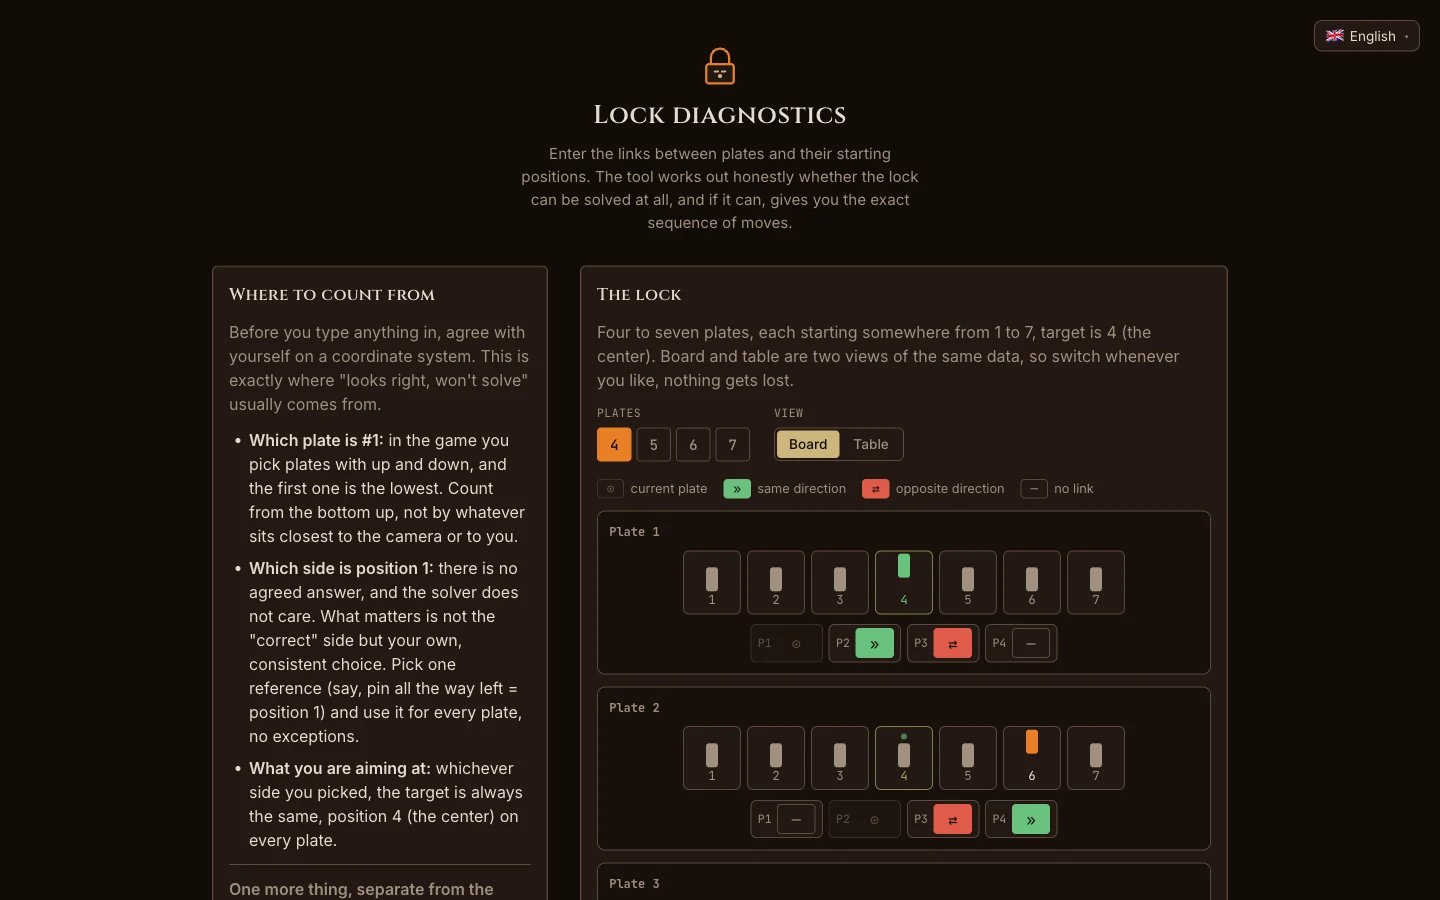
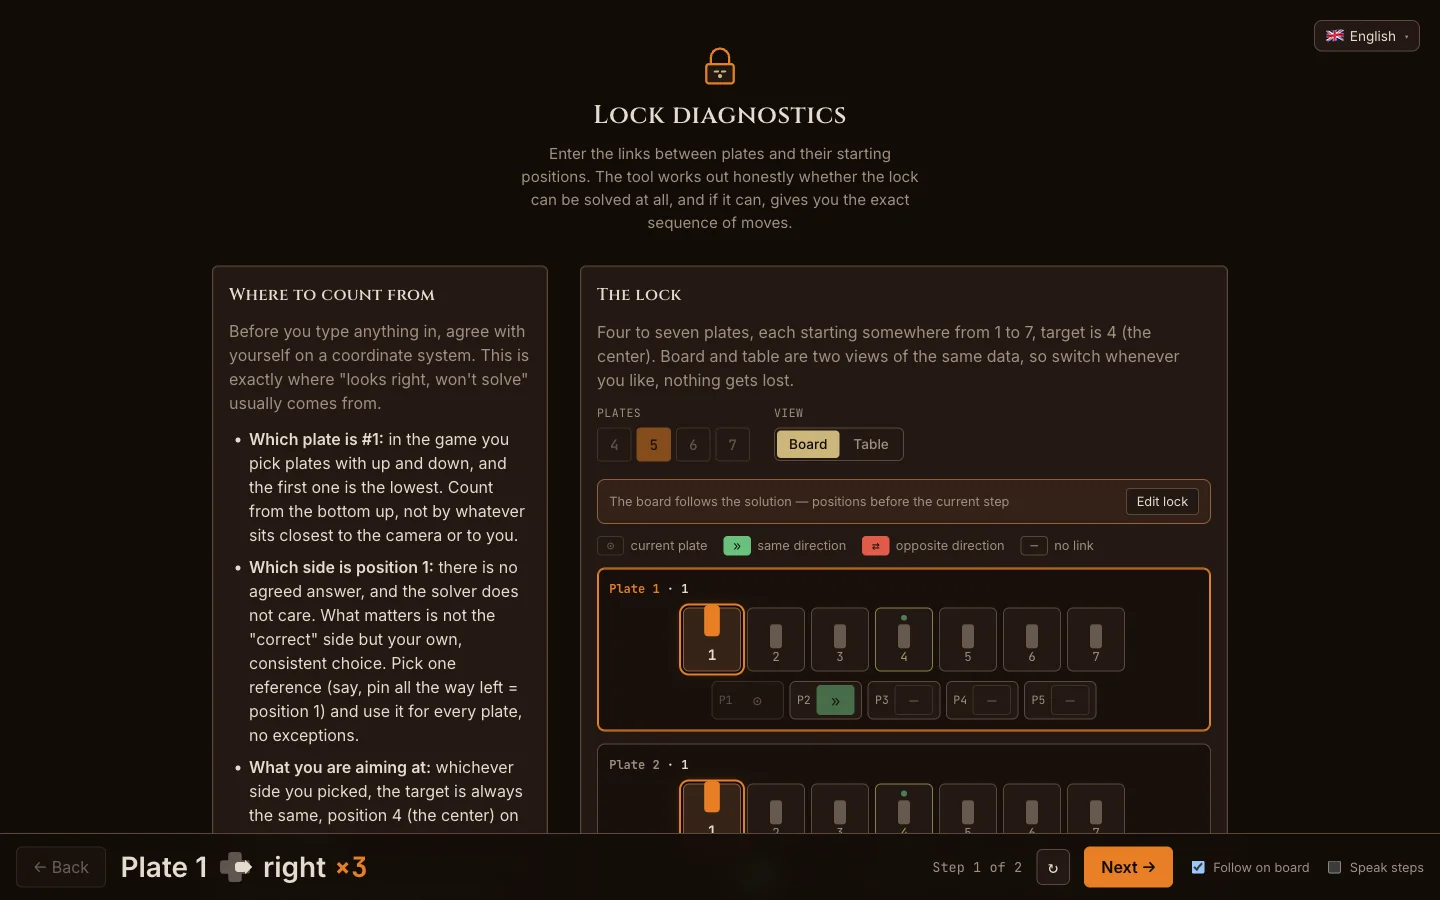
docs: refresh README, changelog and share images for voice replay
The og card still said 19 languages and predated the current design
language; rebuilt it from the app's own tokens (Cinzel, ember/brass
OKLCH, PinSlot styling) with the corrected count and a nod to spoken
steps. The README preview now shows the playback bar itself — including
the new voice toggle — instead of only the input form, since the replay
is what the tool is used for.

Changed region(s): [[0.4062, 0.4667, 0.875, 0.9956], [0.0625, 0.3422, 0.375, 1.0]]

diff --git a/CHANGELOG.md b/CHANGELOG.md
@@ -7,6 +7,10 @@ and this project adheres to [Semantic Versioning](https://semver.org/spec/v2.0.0
 
 ## [Unreleased]
 
+### Added
+
+- Voice step announcements. An opt-in "Speak steps" checkbox on the playback bar reads every replay step aloud — "Plate 6. Right, 3 times." — in the interface language, so the combination can be entered by ear without looking back at the screen. Announcements use the browser's built-in speech synthesis (Web Speech API): nothing is downloaded, everything stays offline. A fresh solve and every Prev/Next/Restart announce the step you should perform; rapid stepping never queues a backlog (each announcement replaces the previous one); turning the checkbox on speaks immediately, which also unlocks audio on iOS. Counts are grammatically correct in all 20 locales — the Slavic 1/2–4/5+ split ("3 рази" / "5 разів"), spelled-out Czech/Slovak/Hungarian multiplicatives ("třikrát", "háromszor"), the Chinese measure word ("两次") and the feminine "2" in Romanian, Catalan and Portuguese ("de două ori", "dues vegades", "duas vezes"). When the browser has no voice for the language, a near-language voice steps in where that is intelligible (Valencian → Catalan, Slovak → Czech, Latin-American Spanish → es-MX); otherwise the app shows a quiet "no voice for this language" hint and stays silent rather than letting an English voice garble foreign words.
+
 ## [0.2.0] - 2026-07-08
 
 ### Added

diff --git a/README.md b/README.md
@@ -19,7 +19,7 @@ Everything runs in your browser. No account, no ads, nothing is uploaded anywher
 1. **Pick the number of plates** (4 to 7, depending on the lock).
 2. **Set each plate's starting position** — where its pin sits the moment you open the lock (1 to 7; the centre, and the goal, is 4).
 3. **Enter the links.** For each plate, mark how the _other_ plates react when you move it — the same way (`»`), the opposite way (`⇄`), or not at all (`—`). Each link is one button that cycles through the three states.
-4. **Press Solve.** You get a numbered list of moves. Step through them and watch the right plate light up on the board as you go.
+4. **Press Solve.** You get a numbered list of moves. Step through them and watch the right plate light up on the board as you go — or tick "Speak steps" and have each move read to you aloud.
 
 The app has a short "Where to count from" note near the top. Read it before you start — a mismatched frame of reference is the usual reason a lock "looks right but won't solve."
 
@@ -29,6 +29,7 @@ The app has a short "Where to count from" note near the top. Read it before you 
 - **Honest about impossible locks.** Some locks really can't be opened (at Master level the skill can strip out a link you needed). The tool tells you rather than pretending.
 - **Two ways to enter a lock:** a visual board you click, or a compact table. Switch whenever you like, nothing is lost.
 - **Step-by-step playback** that highlights the plate being moved.
+- **Voice announcements.** Tick "Speak steps" on the playback bar and every step is read aloud in your language — "Plate 6. Right, 3 times." — so you can enter the combination by ear without looking away from the game. It uses the voices built into your browser, works offline, and the counts are grammatically correct in every language.
 - **20 languages,** picked automatically from your browser and switchable in the top-right corner. Your language and the lock you are building are both remembered.
 
 ## Languages